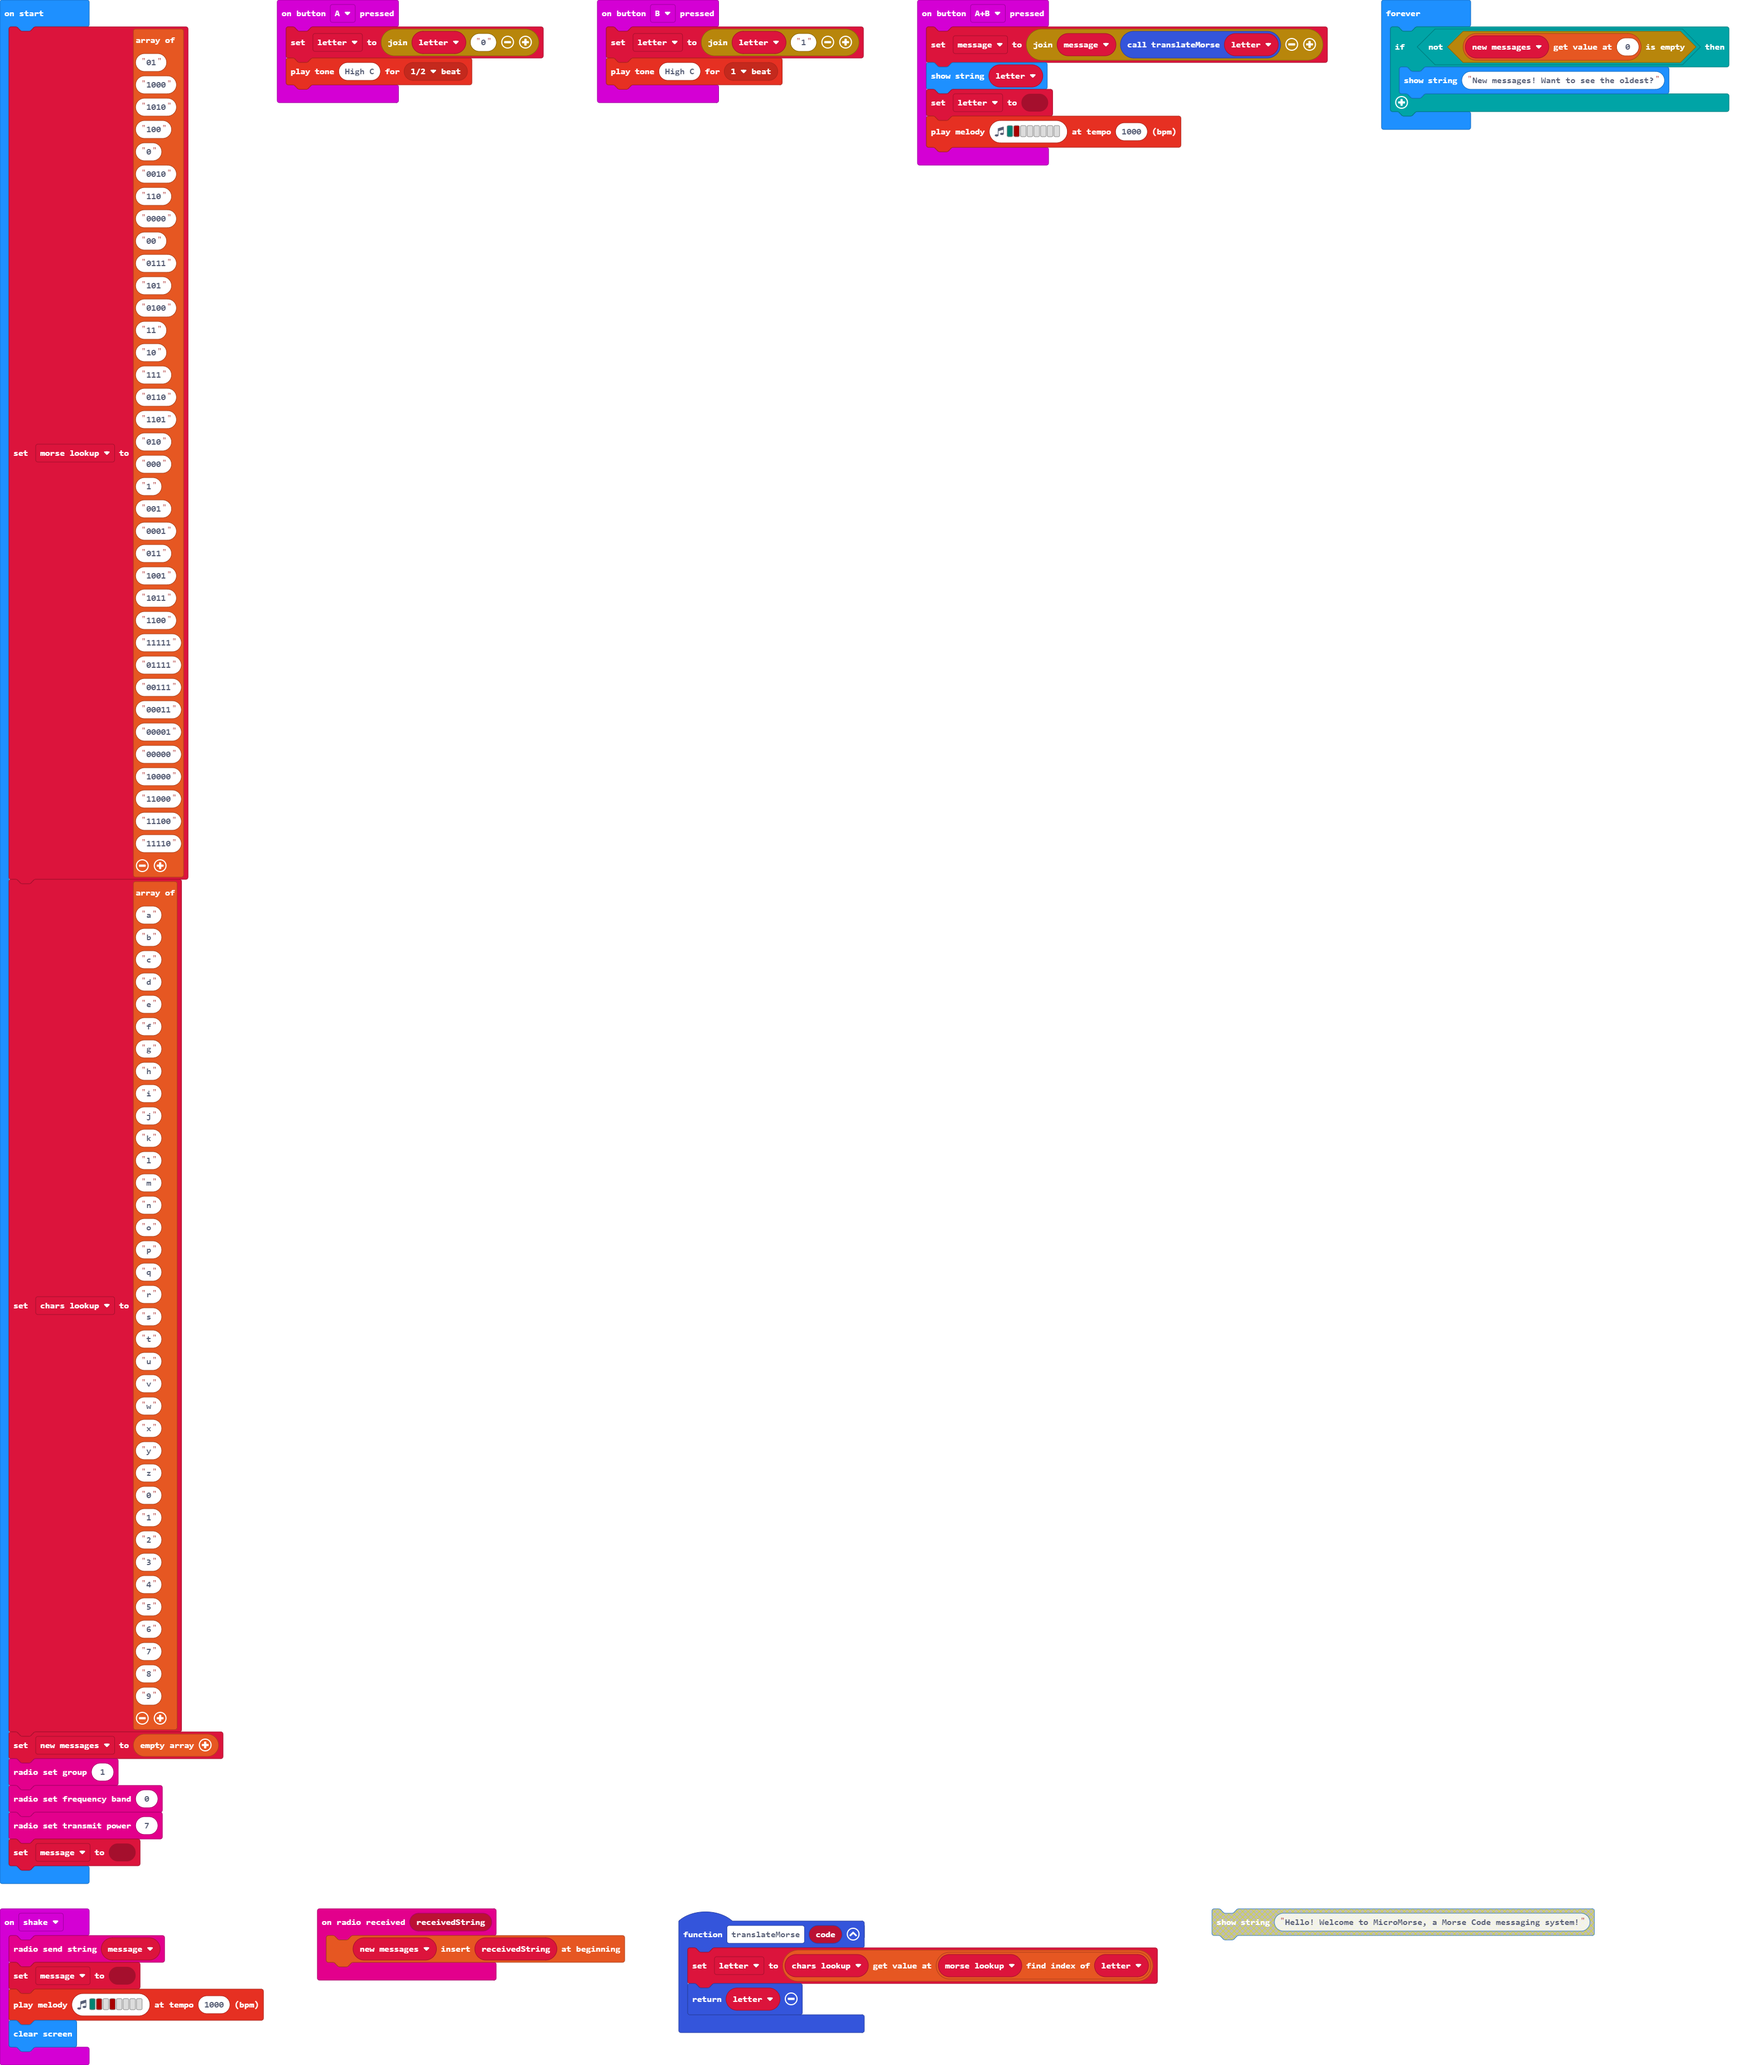
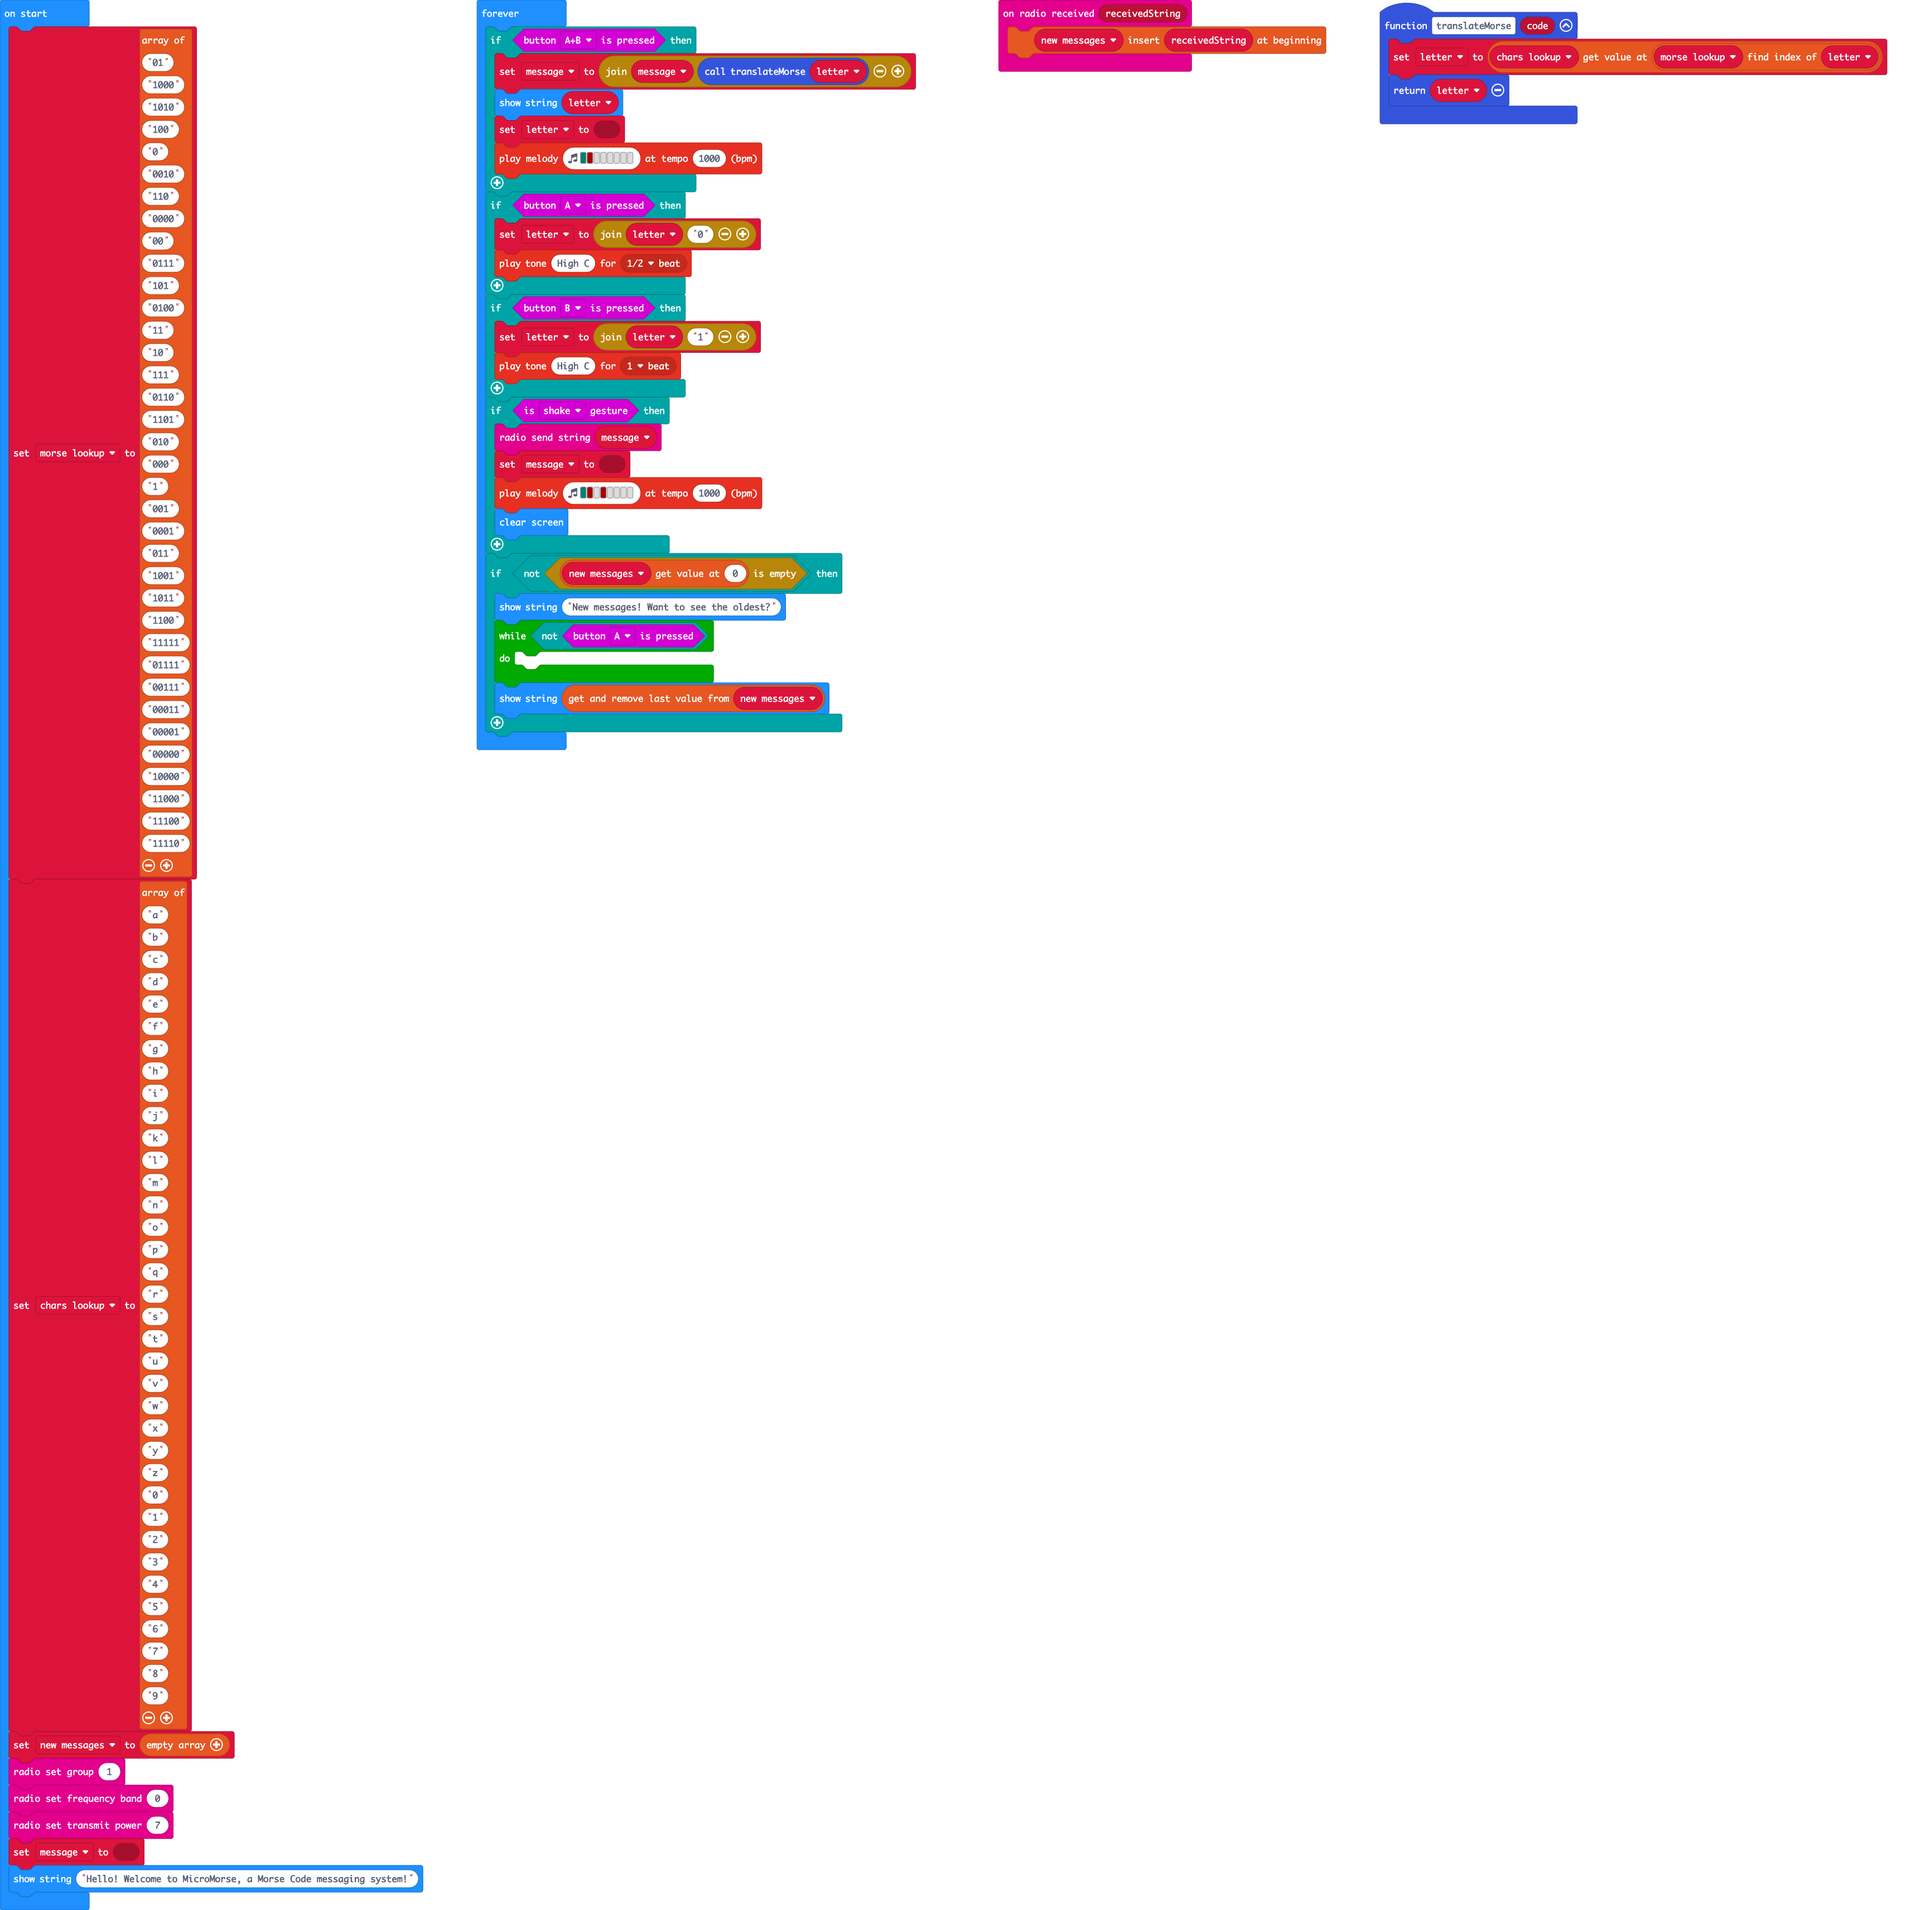
More work on MicroMorseOS done, big bugs in code, will be fixed later.

Changed region(s): [[0.1555, 0.0, 0.9949, 0.4062], [0.0, 0.0, 0.684, 1.0], [0.684, 0.9062, 0.9016, 0.9375]]

diff --git a/main.ts b/main.ts
@@ -1,32 +1,11 @@
-input.onButtonPressed(Button.A, function () {
-    letter = "" + letter + "0"
-    music.playTone(523, music.beat(BeatFraction.Half))
-})
-input.onButtonPressed(Button.AB, function () {
-    message = "" + message + translateMorse(letter)
-    basic.showString("" + (letter))
-    letter = ""
-    music.playMelody("F C5 - - - - - - ", 1000)
-})
 radio.onReceivedString(function (receivedString) {
     new_messages.unshift(receivedString)
-})
-input.onButtonPressed(Button.B, function () {
-    letter = "" + letter + "1"
-    music.playTone(523, music.beat(BeatFraction.Whole))
-})
-input.onGesture(Gesture.Shake, function () {
-    radio.sendString("" + (message))
-    message = ""
-    music.playMelody("F C5 - C5 - - - - ", 1000)
-    basic.clearScreen()
 })
 function translateMorse (code: string) {
     letter = chars_lookup[morse_lookup.indexOf(letter)]
     return letter
 }
 let letter = ""
-let message = ""
 let new_messages: string[] = []
 let chars_lookup: string[] = []
 let morse_lookup: string[] = []
@@ -110,9 +89,34 @@ new_messages = []
 radio.setGroup(1)
 radio.setFrequencyBand(0)
 radio.setTransmitPower(7)
-message = ""
+let message = ""
+basic.showString("Hello! Welcome to MicroMorse, a Morse Code messaging system!")
 basic.forever(function () {
+    if (input.buttonIsPressed(Button.AB)) {
+        message = "" + message + translateMorse(letter)
+        basic.showString("" + (letter))
+        letter = ""
+        music.playMelody("F C5 - - - - - - ", 1000)
+    }
+    if (input.buttonIsPressed(Button.A)) {
+        letter = "" + letter + "0"
+        music.playTone(523, music.beat(BeatFraction.Half))
+    }
+    if (input.buttonIsPressed(Button.B)) {
+        letter = "" + letter + "1"
+        music.playTone(523, music.beat(BeatFraction.Whole))
+    }
+    if (input.isGesture(Gesture.Shake)) {
+        radio.sendString("" + (message))
+        message = ""
+        music.playMelody("F C5 - C5 - - - - ", 1000)
+        basic.clearScreen()
+    }
     if (!(new_messages[0].isEmpty())) {
         basic.showString("New messages! Want to see the oldest?")
+        while (!(input.buttonIsPressed(Button.A))) {
+        	
+        }
+        basic.showString("" + (new_messages.pop()))
     }
 })
